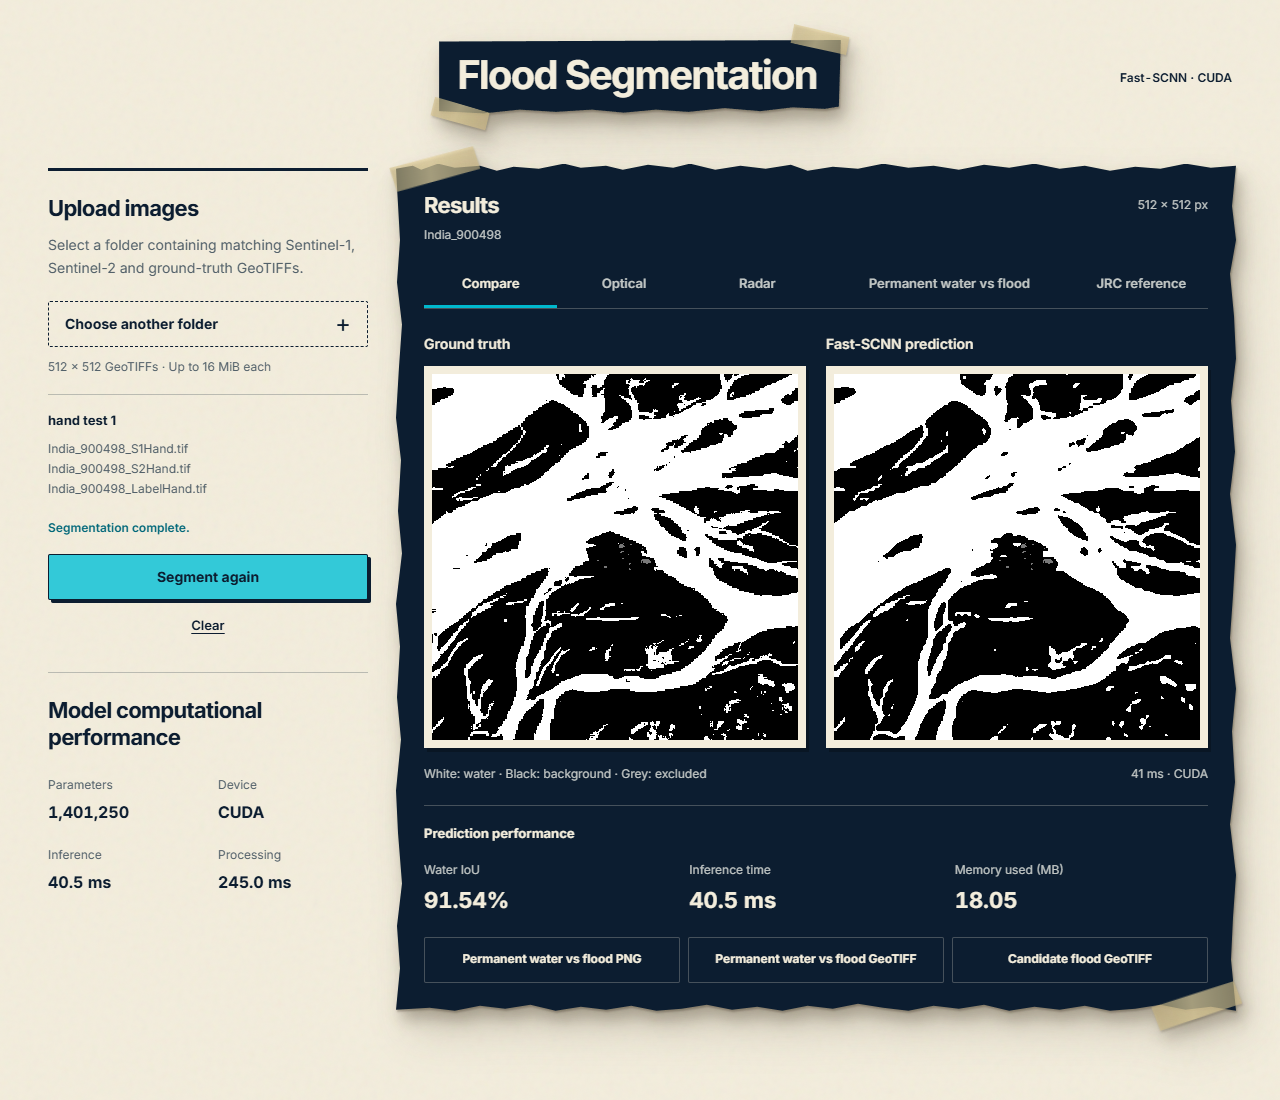
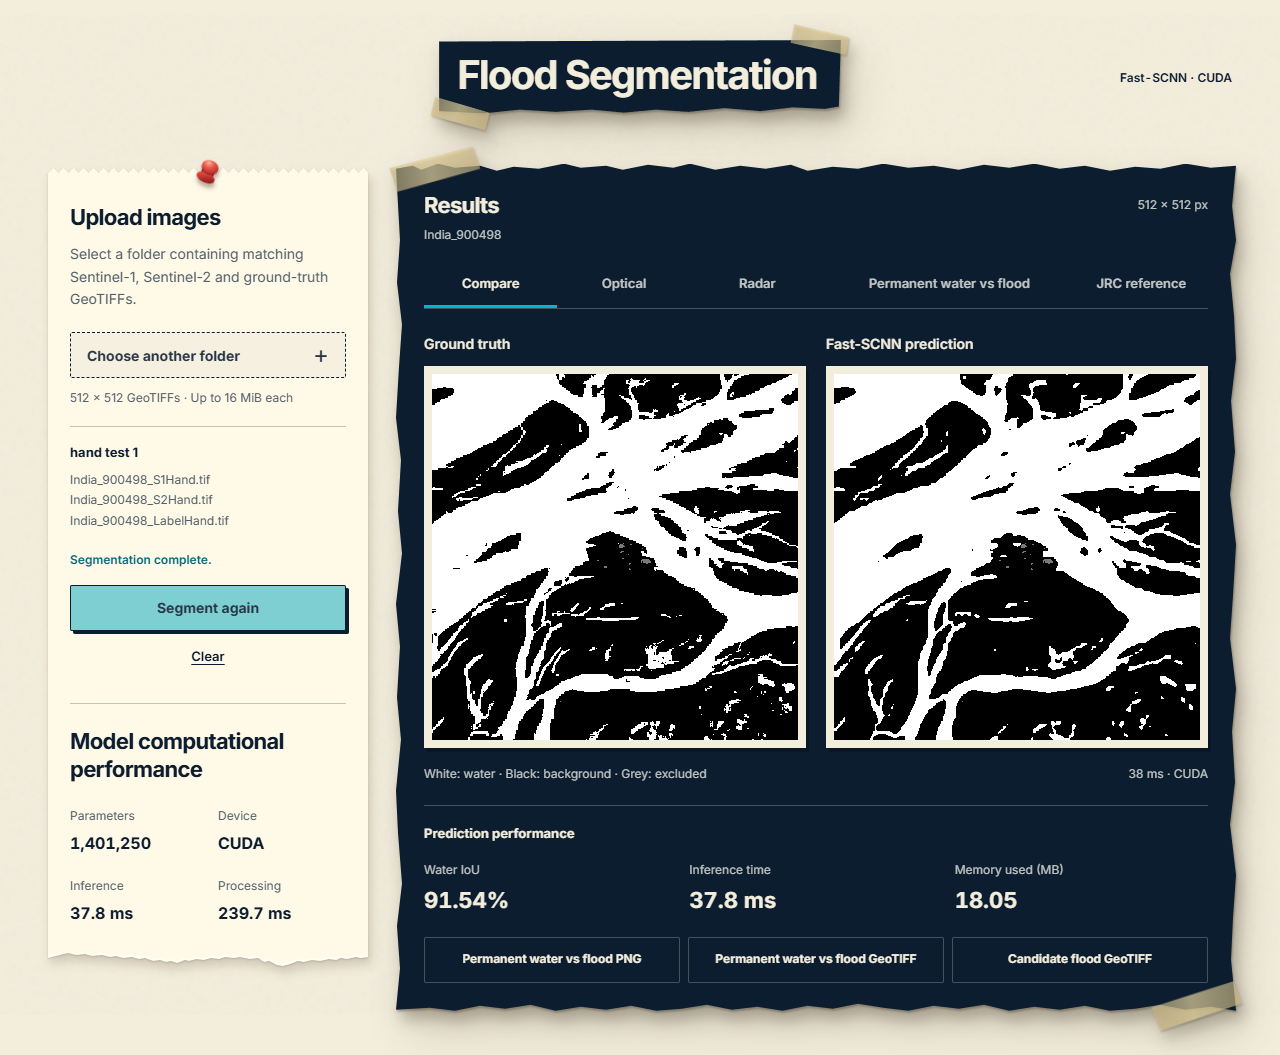
Refresh the README demo image and document the main push workflow

diff --git a/README.md b/README.md
@@ -9,7 +9,7 @@ permanent-water reference. **Permanent water vs flood** shows a solid mask with
 blue detected permanent water and red candidate floodwater. Start with one of
 the ten triplets under `hand test/`.
 
-![Fast-SCNN app showing ground-truth comparison, Water IoU, inference time and GPU memory usage](docs/screenshots/demo.png)
+![Fast-SCNN dashboard with a pinned upload panel and side-by-side ground truth and predicted water masks for India_900498](docs/screenshots/demo.png)
 
 ## Run with Docker
 

diff --git a/AGENTS.md b/AGENTS.md
@@ -1,0 +1,3 @@
+# Pushes to main
+
+When the user asks to push changes to `main`, include a fresh app screenshot in the README in the same push. Capture the running version being pushed, using a completed prediction from `hand test/hand test 1` in the Compare view. Save it to `docs/screenshots/demo.png` and verify the README displays it.
